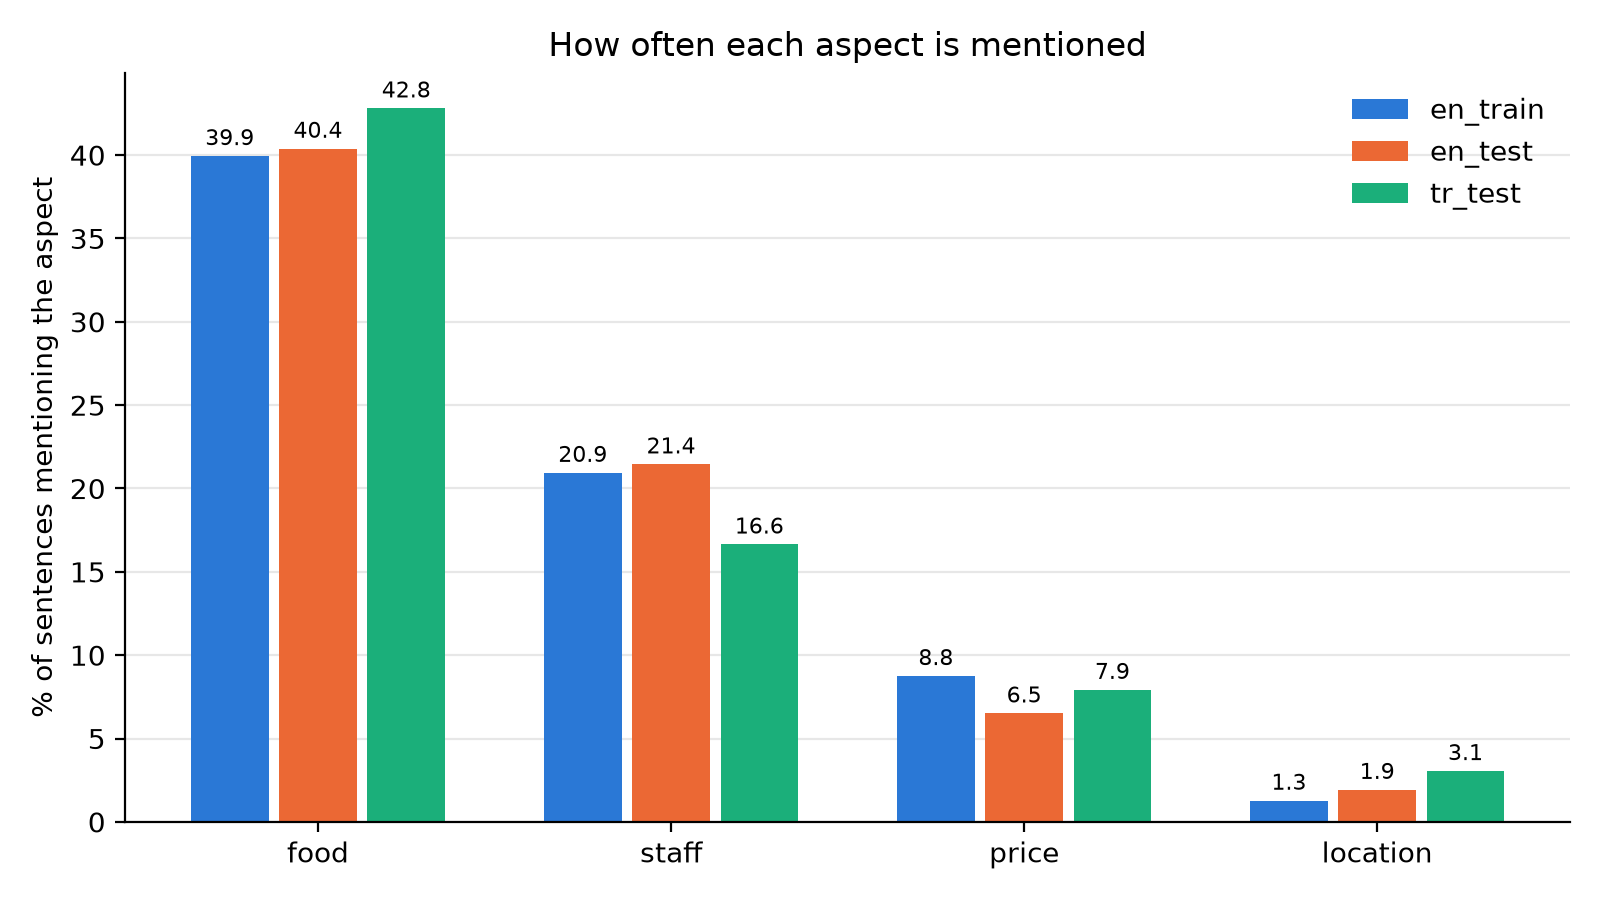
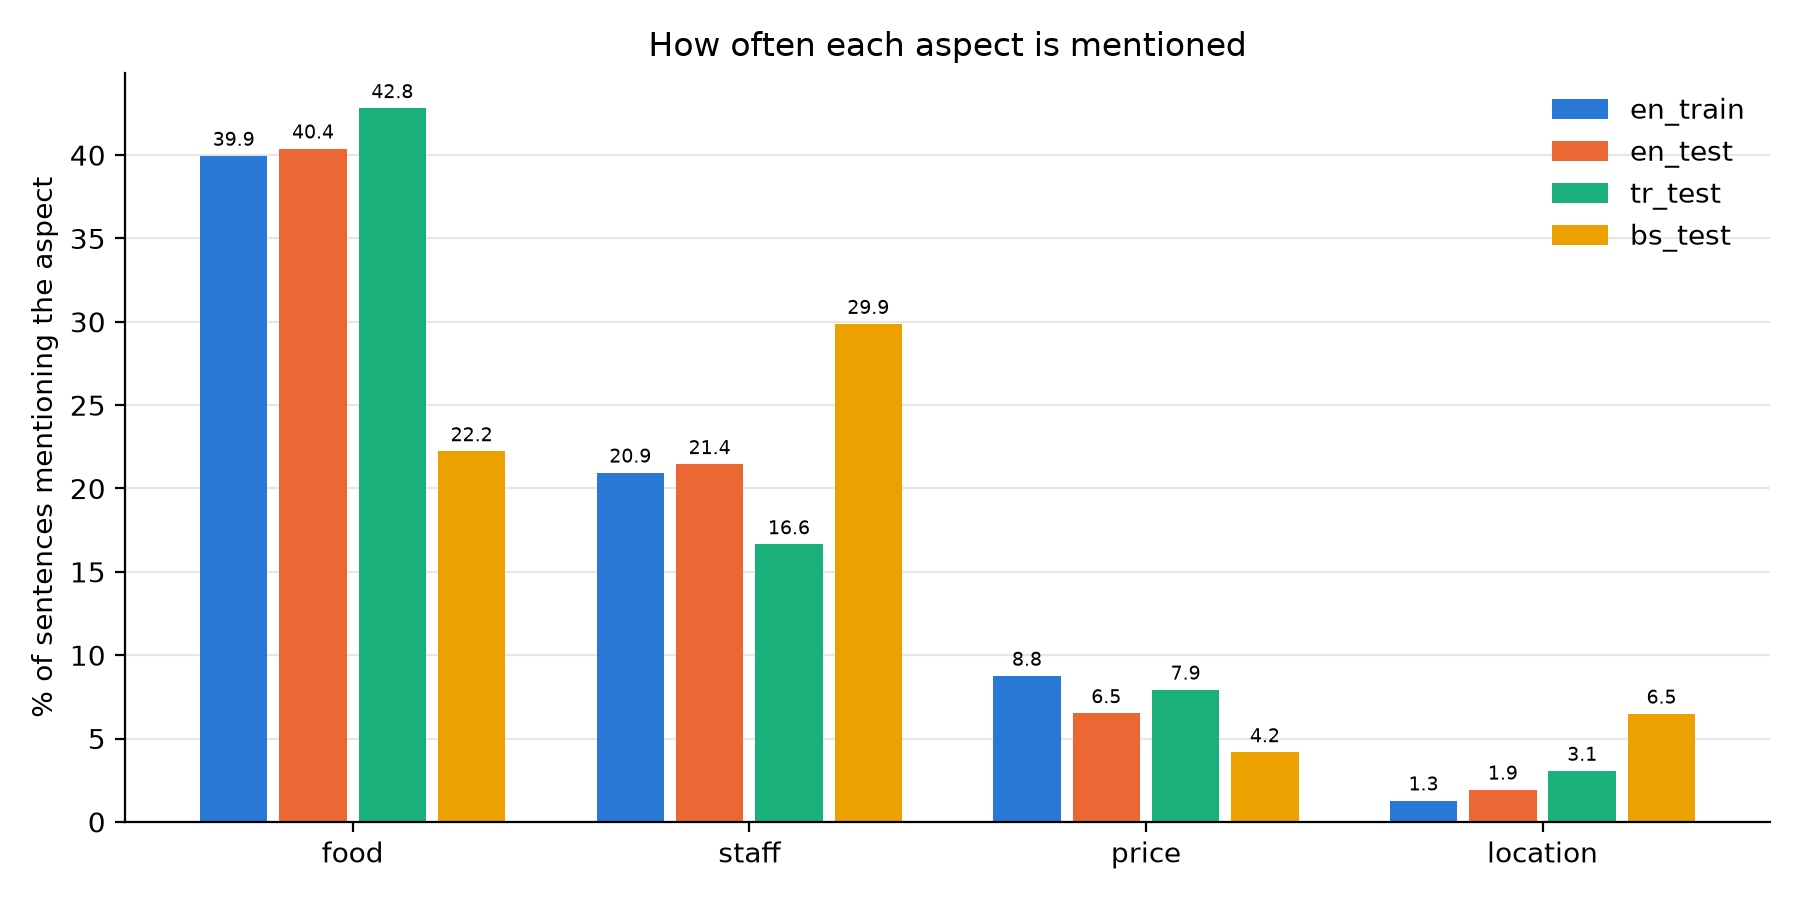
Add Bosnian test set to data analysis

diff --git a/src/analyze_data.py b/src/analyze_data.py
@@ -19,18 +19,26 @@ OUT_DIR = os.path.join("results", "data_analysis")
 
 ASPECTS = ["food", "staff", "price", "location"]
 LABELS = ["positive", "negative", "neutral", "conflict"]
-DATASETS = ["en_train", "en_val", "en_test", "tr_test"]
+DATASETS = ["en_train", "en_val", "en_test", "tr_test", "bs_test"]
 
 # Colours for the charts (colour-blind friendly)
-DATASET_COLORS = {"en_train": "#2a78d6", "en_test": "#eb6834", "tr_test": "#1baf7a"}
+DATASET_COLORS = {"en_train": "#2a78d6", "en_test": "#eb6834",
+                  "tr_test": "#1baf7a", "bs_test": "#eda100"}
 LABEL_COLORS = {"positive": "#2a78d6", "negative": "#eb6834",
                 "neutral": "#a3a29c", "conflict": "#6250d6"}
 
 
 def load_datasets():
-    """Loads all processed CSV files into a dictionary {name: table}."""
-    return {name: pd.read_csv(os.path.join(PROCESSED_DIR, f"{name}.csv"), encoding="utf-8")
-            for name in DATASETS}
+    """Loads the processed CSV files into a dictionary {name: table}.
+    bs_test.csv is not in the repository (see data/README.md), so it is skipped if missing."""
+    data = {}
+    for name in DATASETS:
+        path = os.path.join(PROCESSED_DIR, f"{name}.csv")
+        if os.path.exists(path):
+            data[name] = pd.read_csv(path, encoding="utf-8")
+        else:
+            print(f"Skipping {name}: {path} not found")
+    return data
 
 
 def table_dataset_sizes(data):
@@ -64,17 +72,17 @@ def table_label_counts(data):
 
 def chart_aspect_frequency(data, out_path):
     """Chart 1: percentage of sentences that mention each aspect, per dataset."""
-    names = ["en_train", "en_test", "tr_test"]
-    bar_width = 0.25
-    fig, ax = plt.subplots(figsize=(8, 4.5))
+    names = [n for n in ["en_train", "en_test", "tr_test", "bs_test"] if n in data]
+    bar_width = 0.8 / len(names)
+    fig, ax = plt.subplots(figsize=(9, 4.5))
 
     for i, name in enumerate(names):
         df = data[name]
         percents = [100 * (df[aspect] != "none").mean() for aspect in ASPECTS]
-        positions = [x + (i - 1) * bar_width for x in range(len(ASPECTS))]
+        positions = [x + (i - (len(names) - 1) / 2) * bar_width for x in range(len(ASPECTS))]
         bars = ax.bar(positions, percents, width=bar_width - 0.03,
                       color=DATASET_COLORS[name], label=name)
-        ax.bar_label(bars, fmt="%.1f", fontsize=8, padding=2)
+        ax.bar_label(bars, fmt="%.1f", fontsize=7, padding=2)
 
     ax.set_xticks(range(len(ASPECTS)))
     ax.set_xticklabels(ASPECTS)
